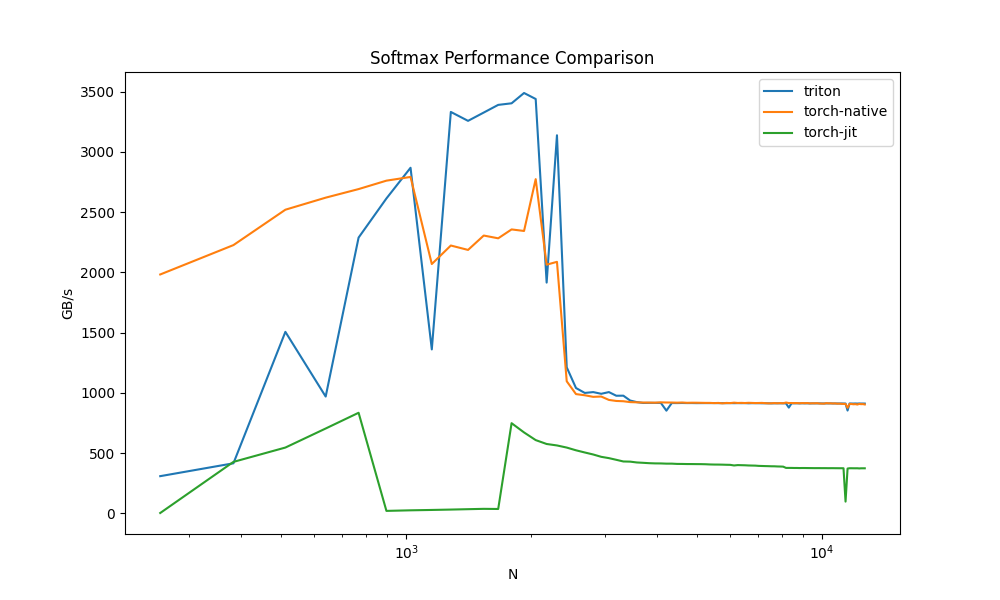
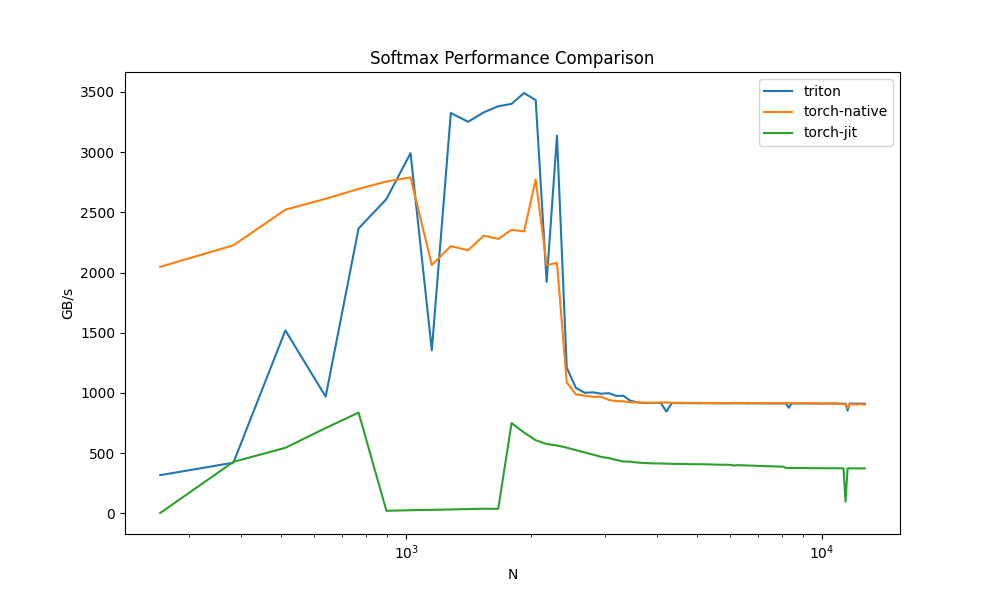
matrix

diff --git a/tutorial_examples/matrix_multiplication.py b/tutorial_examples/matrix_multiplication.py
@@ -1,0 +1,170 @@
+import torch
+
+import triton
+import triton.language as tl
+
+# triton.autotune permite que diferentes configs sejam testadas
+# para encotrar a mais eficiente
+@triton.autotune(
+    configs=[
+        triton.Config({'BLOCK_SIZE_M': 128, 'BLOCK_SIZE_N': 256, 'BLOCK_SIZE_K': 64, 'GROUP_SIZE_M': 8}, num_stages=3,
+                      num_warps=8),
+        triton.Config({'BLOCK_SIZE_M': 64, 'BLOCK_SIZE_N': 256, 'BLOCK_SIZE_K': 32, 'GROUP_SIZE_M': 8}, num_stages=4,
+                      num_warps=4),
+        triton.Config({'BLOCK_SIZE_M': 128, 'BLOCK_SIZE_N': 128, 'BLOCK_SIZE_K': 32, 'GROUP_SIZE_M': 8}, num_stages=4,
+                      num_warps=4),
+        triton.Config({'BLOCK_SIZE_M': 128, 'BLOCK_SIZE_N': 64, 'BLOCK_SIZE_K': 32, 'GROUP_SIZE_M': 8}, num_stages=4,
+                      num_warps=4),
+        triton.Config({'BLOCK_SIZE_M': 64, 'BLOCK_SIZE_N': 128, 'BLOCK_SIZE_K': 32, 'GROUP_SIZE_M': 8}, num_stages=4,
+                      num_warps=4),
+        triton.Config({'BLOCK_SIZE_M': 128, 'BLOCK_SIZE_N': 32, 'BLOCK_SIZE_K': 32, 'GROUP_SIZE_M': 8}, num_stages=4,
+                      num_warps=4),
+        triton.Config({'BLOCK_SIZE_M': 64, 'BLOCK_SIZE_N': 32, 'BLOCK_SIZE_K': 32, 'GROUP_SIZE_M': 8}, num_stages=5,
+                      num_warps=2),
+        triton.Config({'BLOCK_SIZE_M': 32, 'BLOCK_SIZE_N': 64, 'BLOCK_SIZE_K': 32, 'GROUP_SIZE_M': 8}, num_stages=5,
+                      num_warps=2),
+    ],
+    key=['M', 'N', 'K'],
+)
+
+@triton.jit
+def matmul_kernel(
+        # Pointers to matrices
+        a_ptr, b_ptr, c_ptr,
+        # Matrix dimensions
+        M, N, K,
+        # The stride variables represent how much to increase the ptr by when moving by 1
+        # element in a particular dimension. E.g. `stride_am` is how much to increase `a_ptr`
+        # by to get the element one row down (A has M rows).
+        stride_am, stride_ak,  #
+        stride_bk, stride_bn,  #
+        stride_cm, stride_cn,
+        # Meta-parameters
+        BLOCK_SIZE_M: tl.constexpr, BLOCK_SIZE_N: tl.constexpr, BLOCK_SIZE_K: tl.constexpr,  #
+        GROUP_SIZE_M: tl.constexpr,  #
+        ACTIVATION: tl.constexpr  #
+):
+    """Kernel for computing the matmul C = A x B.
+    A has shape (M, K), B has shape (K, N) and C has shape (M, N)
+    """
+    # -----------------------------------------------------------
+    # Map program ids `pid` to the block of C it should compute.
+    # This is done in a grouped ordering to promote L2 data reuse.
+    # See above `L2 Cache Optimizations` section for details.
+    pid = tl.program_id(axis=0)
+    num_pid_m = tl.cdiv(M, BLOCK_SIZE_M)
+    num_pid_n = tl.cdiv(N, BLOCK_SIZE_N)
+    num_pid_in_group = GROUP_SIZE_M * num_pid_n
+    group_id = pid // num_pid_in_group
+    first_pid_m = group_id * GROUP_SIZE_M
+    group_size_m = min(num_pid_m - first_pid_m, GROUP_SIZE_M)
+    pid_m = first_pid_m + (pid % group_size_m)
+    pid_n = (pid % num_pid_in_group) // group_size_m
+
+    # ----------------------------------------------------------
+    # Create pointers for the first blocks of A and B.
+    # We will advance this pointer as we move in the K direction
+    # and accumulate
+    # `a_ptrs` is a block of [BLOCK_SIZE_M, BLOCK_SIZE_K] pointers
+    # `b_ptrs` is a block of [BLOCK_SIZE_K, BLOCK_SIZE_N] pointers
+    # See above `Pointer Arithmetics` section for details
+    offs_am = (pid_m * BLOCK_SIZE_M + tl.arange(0, BLOCK_SIZE_M)) % M
+    offs_bn = (pid_n * BLOCK_SIZE_N + tl.arange(0, BLOCK_SIZE_N)) % N
+    offs_k = tl.arange(0, BLOCK_SIZE_K)
+    a_ptrs = a_ptr + (offs_am[:, None] * stride_am + offs_k[None, :] * stride_ak)
+    b_ptrs = b_ptr + (offs_k[:, None] * stride_bk + offs_bn[None, :] * stride_bn)
+
+    # -----------------------------------------------------------
+    # Iterate to compute a block of the C matrix.
+    # We accumulate into a `[BLOCK_SIZE_M, BLOCK_SIZE_N]` block
+    # of fp32 values for higher accuracy.
+    # `accumulator` will be converted back to fp16 after the loop.
+    accumulator = tl.zeros((BLOCK_SIZE_M, BLOCK_SIZE_N), dtype=tl.float32)
+    for k in range(0, tl.cdiv(K, BLOCK_SIZE_K)):
+        # Load the next block of A and B, generate a mask by checking the K dimension.
+        # If it is out of bounds, set it to 0.
+        a = tl.load(a_ptrs, mask=offs_k[None, :] < K - k * BLOCK_SIZE_K, other=0.0)
+        b = tl.load(b_ptrs, mask=offs_k[:, None] < K - k * BLOCK_SIZE_K, other=0.0)
+        # We accumulate along the K dimension.
+        accumulator += tl.dot(a, b)
+        # Advance the ptrs to the next K block.
+        a_ptrs += BLOCK_SIZE_K * stride_ak
+        b_ptrs += BLOCK_SIZE_K * stride_bk
+    # You can fuse arbitrary activation functions here
+    # while the accumulator is still in FP32!
+    if ACTIVATION == "leaky_relu":
+        accumulator = leaky_relu(accumulator)
+    c = accumulator.to(tl.float16)
+
+    # -----------------------------------------------------------
+    # Write back the block of the output matrix C with masks.
+    offs_cm = pid_m * BLOCK_SIZE_M + tl.arange(0, BLOCK_SIZE_M)
+    offs_cn = pid_n * BLOCK_SIZE_N + tl.arange(0, BLOCK_SIZE_N)
+    c_ptrs = c_ptr + stride_cm * offs_cm[:, None] + stride_cn * offs_cn[None, :]
+    c_mask = (offs_cm[:, None] < M) & (offs_cn[None, :] < N)
+    tl.store(c_ptrs, c, mask=c_mask)
+
+
+def matmul(a, b, activation=""):
+    # Check constraints.
+    assert a.shape[1] == b.shape[0], "Incompatible dimensions"
+    assert a.is_contiguous(), "Matrix A must be contiguous"
+    assert b.is_contiguous(), "Matrix B must be contiguous"
+    M, K = a.shape
+    K, N = b.shape
+    # Allocates output.
+    c = torch.empty((M, N), device=a.device, dtype=a.dtype)
+    # 1D launch kernel where each block gets its own program.
+    grid = lambda META: (triton.cdiv(M, META['BLOCK_SIZE_M']) * triton.cdiv(N, META['BLOCK_SIZE_N']), )
+    matmul_kernel[grid](
+        a, b, c,  #
+        M, N, K,  #
+        a.stride(0), a.stride(1),  #
+        b.stride(0), b.stride(1),  #
+        c.stride(0), c.stride(1),  #
+        ACTIVATION=activation  #
+    )
+    return c
+
+
+
+
+
+@triton.testing.perf_report(
+    triton.testing.Benchmark(
+        x_names=['M', 'N', 'K'],  # Argument names to use as an x-axis for the plot
+        x_vals=[128 * i for i in range(2, 33)],  # Different possible values for `x_name`
+        line_arg='provider',  # Argument name whose value corresponds to a different line in the plot
+        # Possible values for `line_arg`
+        line_vals=['cublas', 'triton'],
+        # Label name for the lines
+        line_names=["cuBLAS", "Triton"],
+        # Line styles
+        styles=[('green', '-'), ('blue', '-')],
+        ylabel="TFLOPS",  # Label name for the y-axis
+        plot_name="matmul-performance",  # Name for the plot, used also as a file name for saving the plot.
+        args={},
+    ))
+def benchmark(M, N, K, provider):
+    a = torch.randn((M, K), device='cuda', dtype=torch.float16)
+    b = torch.randn((K, N), device='cuda', dtype=torch.float16)
+    quantiles = [0.5, 0.2, 0.8]
+    if provider == 'cublas':
+        ms, min_ms, max_ms = triton.testing.do_bench(lambda: torch.matmul(a, b))
+    if provider == 'triton':
+        ms, min_ms, max_ms = triton.testing.do_bench(lambda: matmul(a, b))
+    perf = lambda ms: 2 * M * N * K * 1e-12 / (ms * 1e-3)
+    return perf(ms), perf(max_ms), perf(min_ms)
+
+
+benchmark.run(show_plots=True, print_data=True)
+
+
+
+
+
+
+
+
+
+

diff --git a/tutorial_examples/fused_softmax.py b/tutorial_examples/fused_softmax.py
@@ -142,6 +142,37 @@ plt.savefig('./results/softmax.png')
 
 
 
+@triton.testing.perf_report(
+    triton.testing.Benchmark(
+        x_names=['N'],  # argument names to use as an x-axis for the plot
+        x_vals=[128 * i for i in range(2, 100)],  # different possible values for `x_name`
+        line_arg='provider',  # argument name whose value corresponds to a different line in the plot
+        line_vals=[
+            'triton',
+            'torch-native',
+            'torch-jit',
+        ],  # possible values for `line_arg``
+        line_names=[
+            "Triton",
+            "Torch (native)",
+            "Torch (jit)",
+        ],  # label name for the lines
+        styles=[('blue', '-'), ('green', '-'), ('green', '--')],  # line styles
+        ylabel="GB/s",  # label name for the y-axis
+        plot_name="softmax-performance",  # name for the plot. Used also as a file name for saving the plot.
+        args={'M': 4096},  # values for function arguments not in `x_names` and `y_name`
+    ))
+def benchmark(M, N, provider):
+    x = torch.randn(M, N, device='cuda', dtype=torch.float32)
+    quantiles = [0.5, 0.2, 0.8]
+    if provider == 'torch-native':
+        ms, min_ms, max_ms = triton.testing.do_bench(lambda: torch.softmax(x, axis=-1))
+    if provider == 'triton':
+        ms, min_ms, max_ms = triton.testing.do_bench(lambda: softmax(x))
+    if provider == 'torch-jit':
+        ms, min_ms, max_ms = triton.testing.do_bench(lambda: naive_softmax(x))
+    gbps = lambda ms: 2 * x.nelement() * x.element_size() * 1e-9 / (ms * 1e-3)
+    return gbps(ms), gbps(max_ms), gbps(min_ms)
 
 
-
+benchmark.run(show_plots=True, print_data=True)
